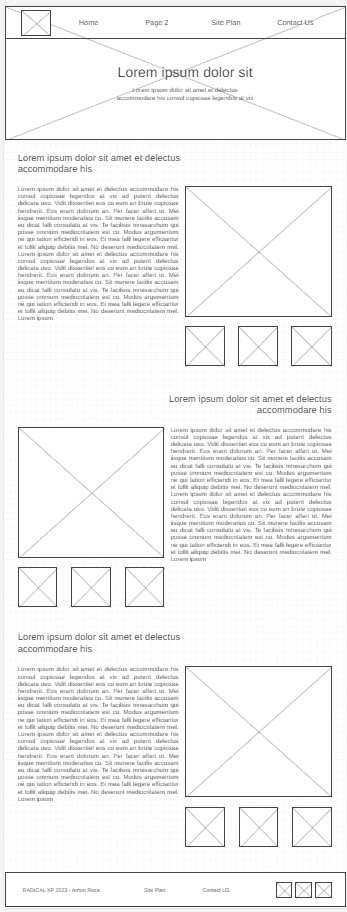
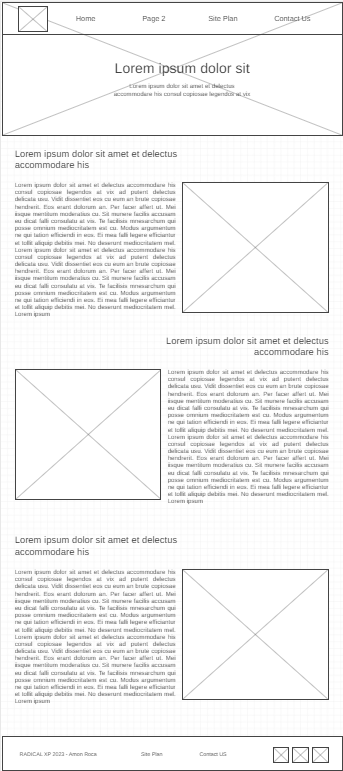
[WDD130] Week 9 - completed rafting site subpage

diff --git a/wwr/rivers.html b/wwr/rivers.html
@@ -1,0 +1,102 @@
+<!DOCTYPE html>
+<html lang="en">
+<head>
+    <meta charset="UTF-8">
+    <meta http-equiv="X-UA-Compatible" content="IE=edge">
+    <meta name="viewport" content="width=device-width, initial-scale=1.0">
+    <title>Whitewater Rafting Vacations | RADICAL XP | Home</title>
+    <link rel="stylesheet" href="styles/style.css">
+</head>
+<body>
+    <div id="content">
+        <header>
+            <a id="logo_link" href="index.html">
+                <img class="radical-xp-logo" src="images/logo.png" alt="RADICAL XP Logo">
+            </a>
+            <nav>
+                <a href="index.html">Home</a>
+                <a href="rivers.html">Rivers</a>
+                <a href="site-plan-rafting.html">Site Plan</a>
+                <a href="#">Contact us</a>
+            </nav>
+        </header>
+        <div id="hero">
+            <div id="hero-box">
+                <img id="hero-img" src="images/littlecolorado-wide.jpg" alt="River wide">
+            </div>
+            <section id="hero-msg">
+                <h1 class="rivers-title">Rivers</h1>
+                <h4>Know the place of your next adventure!</h4>
+            </section>
+        </div>
+        <main class="rivers-grid">
+            <section class="rivers-text-salmon-river">
+                <h2 class="rivers-subtitles">Main Fork of the Salmon River, Idaho</h2>
+                <p>
+                    Nestled deep in the Frank Church Wilderness of No Return winds the Salmon river. 
+                    The Salmon was given the nickname long ago as the River of No Return by the people living near it 
+                    because of the number of folks that came to visit and fell so in love with the rugged beauty of the river that they never left.
+                </p>
+                <p>
+                    Herds of elk and deer graze on the hillsides around the river and bear and bighorn sheep are also commonly sighted. 
+                    The river corridor is also lined with awe inspiring ponderosa pine which tower over the sandy beaches in the campsites and provide shelter from sun or rain when needed.
+                </p>
+                <p>
+                    Let's not forget the rapids! They range from class I-IV. The Salmon is one of the longest undammed rivers in the United States. 
+                    As a free flowing river the water is higher, faster, and colder in the early summer and lower, slower, and warmer in the late summer. 
+                    There are good rapids all summer...but families with children who like to swim tend to appreciate the late summer's slower, warmer water more.
+                </p>
+            </section>
+            <img class="rivers-img-salmon-river" src="images/main_fork_salmon_river.jpg" alt="Main Fork Salmon River - Utah">
+            <section class="rivers-text-gray-canyon">
+                <h2 class="rivers-subtitles">Desolation and Gray Canyon, Utah</h2>
+                <p>
+                    Winding through canyons in central Utah, in some of the most desolate land anywhere, the Green river flows towards the mighty Colorado river and the sea. 
+                    High grey stone cliffs, beautiful desert scenery, and great rapids have made this run famous. 
+                    This 84-mile trip runs from from Sand Wash to Swaseys Rapid (just outside Green River Utah) and boasts outstanding scenery, interesting geologic formations, 
+                    evidence of prehistoric and historic human activity, and great whitewater opportunities.
+                </p>
+                <p>
+                    Desolation is rated a Class II/III and is usually done in 6 days.
+                </p>
+                <p>
+                    Desolation Canyon has been recognized as a National Landmark.  This designation is based on the uniqueness and rich history that the canyon tells.
+                </p>
+            </section>
+            <img class="rivers-img-gray-canyon" src="images/desogray.jpg" alt="Desolation and Gray Canyon - Utah">
+            <section class="rivers-text-grand-canyon">
+                <h1 class="rivers-subtitles">Grand Canyon, Arizona</h1>
+                <p>
+                    This is the grand daddy of all canyons and the grand daddy of all river trips. You will never forget your visit to the Grand Canyon.
+                </p>
+                <p>
+                    Grand Canyon river rafting combines world-class whitewater with breathtaking scenery to make one truly unforgettable river experience. 
+                    The canyon is filled not only with exhilarating whitewater rapids, but with side canyons and ancient indian ruins accessible only by river.
+                </p>
+                <p>
+                    CLASS I - X: The Grand Canyon uses a unique river rating scale. 
+                    The rapids in the Canyon are technically rated I - X ( 1 - 10) to accommodate such a wide variety of rapids and river variances. 
+                    However, most people are familiar with the regular I - V river rating scale, so we often refer to both.
+                </p>
+            </section>
+            <img class="rivers-img-grand-canyon" src="images/gran_canyon_river.jpg" alt="Grand Canyon - Arizona">
+        </main>
+        <footer>
+            <p>RADICAL XP &copy; 2023 - Amon Roca</p>
+            <p><a href="site-plan-rafting.html">Site Plan</a></p>
+            <p><a href="contactus.html">Contact Us</a></p>
+            <div class="social">
+                <a href="https://facebook.com" target="_blank">
+                    <img src="images/facebook.png" alt="fb icon">
+                </a>
+                <a href="https://twitter.com" target="_blank">
+                    <img src="images/twitter.png" alt="twitter icon">
+                </a>
+                <a href="https://instagram.com" target="_blank">
+                    <img src="images/instagram.png" alt="instagram icon">
+                </a>
+            </div>
+        </footer>
+    </div>
+</body>
+</html>

diff --git a/wwr/styles/style.css b/wwr/styles/style.css
@@ -8,8 +8,6 @@
 nav {
     display: flex;
     justify-content: space-around;
-/*     opacity: 0.6;
-    background-color: #060B0F; */
 }
 
 nav a {
@@ -135,9 +133,68 @@ footer p a:hover {
     margin-top: 10px;
 }
 
+.rivers-title {
+    color: white;
+    font-family: 'Titillium Web', 'Arial', 'Lucida Sans', sans-serif;
+    font-size: 2em;
+    margin-top: 90px;
+}
+
 .home-grid {
     display: grid;
     grid-template-columns: repeat(10, 1fr);
+}
+
+.rivers-grid {
+    display: grid;
+    grid-template-columns: repeat(10, 1fr);
+}
+
+.rivers-text-salmon-river {
+    grid-column: 1/6;
+    grid-row: 2/5;
+    text-align: justify;
+    color: white;
+}
+
+.rivers-img-salmon-river {
+    grid-column: 6/11;
+    grid-row: 2/5;
+    max-width: 96%;
+    margin: 75px 0 0 auto;
+}
+
+.rivers-text-gray-canyon {
+    grid-column: 6/11;
+    grid-row: 6/10;
+    text-align: justify;
+    color: white;
+}
+
+.rivers-img-gray-canyon {
+    grid-column: 1/6;
+    grid-row: 6/10;
+    max-width: 96%;
+    margin: 75px auto auto 0;
+}
+
+.rivers-text-grand-canyon {
+    grid-column: 1/6;
+    grid-row: 11/14;
+    text-align: justify;
+    color: white;
+}
+
+.rivers-img-grand-canyon {
+    grid-column: 6/11;
+    grid-row: 11/14;
+    max-width: 96%;
+    margin: 75px 0 0 auto;
+}
+
+.rivers-subtitles {
+    color: #FEFED5;
+    margin-top: 75px;
 }
 
 .book, .join {

diff --git a/wwr/site-plan-rafting.html b/wwr/site-plan-rafting.html
@@ -95,7 +95,7 @@
     <!-- Think about how you want your navigation bar to look. In the site-plan.css file change the colors to your colors to get the look you desire. -->
     <nav>
       <a href="#">Home</a>
-      <a href="#">Page2</a>
+      <a href="#">Rivers</a>
       <a href="#">Contact Us</a>
     </nav>
     <hr />
@@ -103,7 +103,7 @@
     <div class="sitemap">
       <div class="sm-home">Home</div>
       <div class="sm-page2">
-        [Page2]
+        Rivers
         <!-- this page will have a name later -->
       </div>
       <div class="sm-page3">Contact Us</div>
@@ -120,7 +120,7 @@
 
     <img src="https://byui-wdd.github.io/wdd130/rafting_images/wireframe_home.png" alt="home page wireframe" />
 
-    <h3>[Page 2]</h3>
+    <h3>Rivers</h3>
 
     <img src="images/wwr_rivers_wireframe.png" alt="page 2 wireframe">
 

diff --git a/wwr/index.html b/wwr/index.html
@@ -15,9 +15,9 @@
             </a>
             <nav>
                 <a href="index.html">Home</a>
-                <a href="#">Page 2</a>
+                <a href="rivers.html">Rivers</a>
                 <a href="site-plan-rafting.html">Site Plan</a>
-                <a href="contactus.html">Contact us</a>
+                <a href="#">Contact us</a>
             </nav>
         </header>
         <div id="hero">
